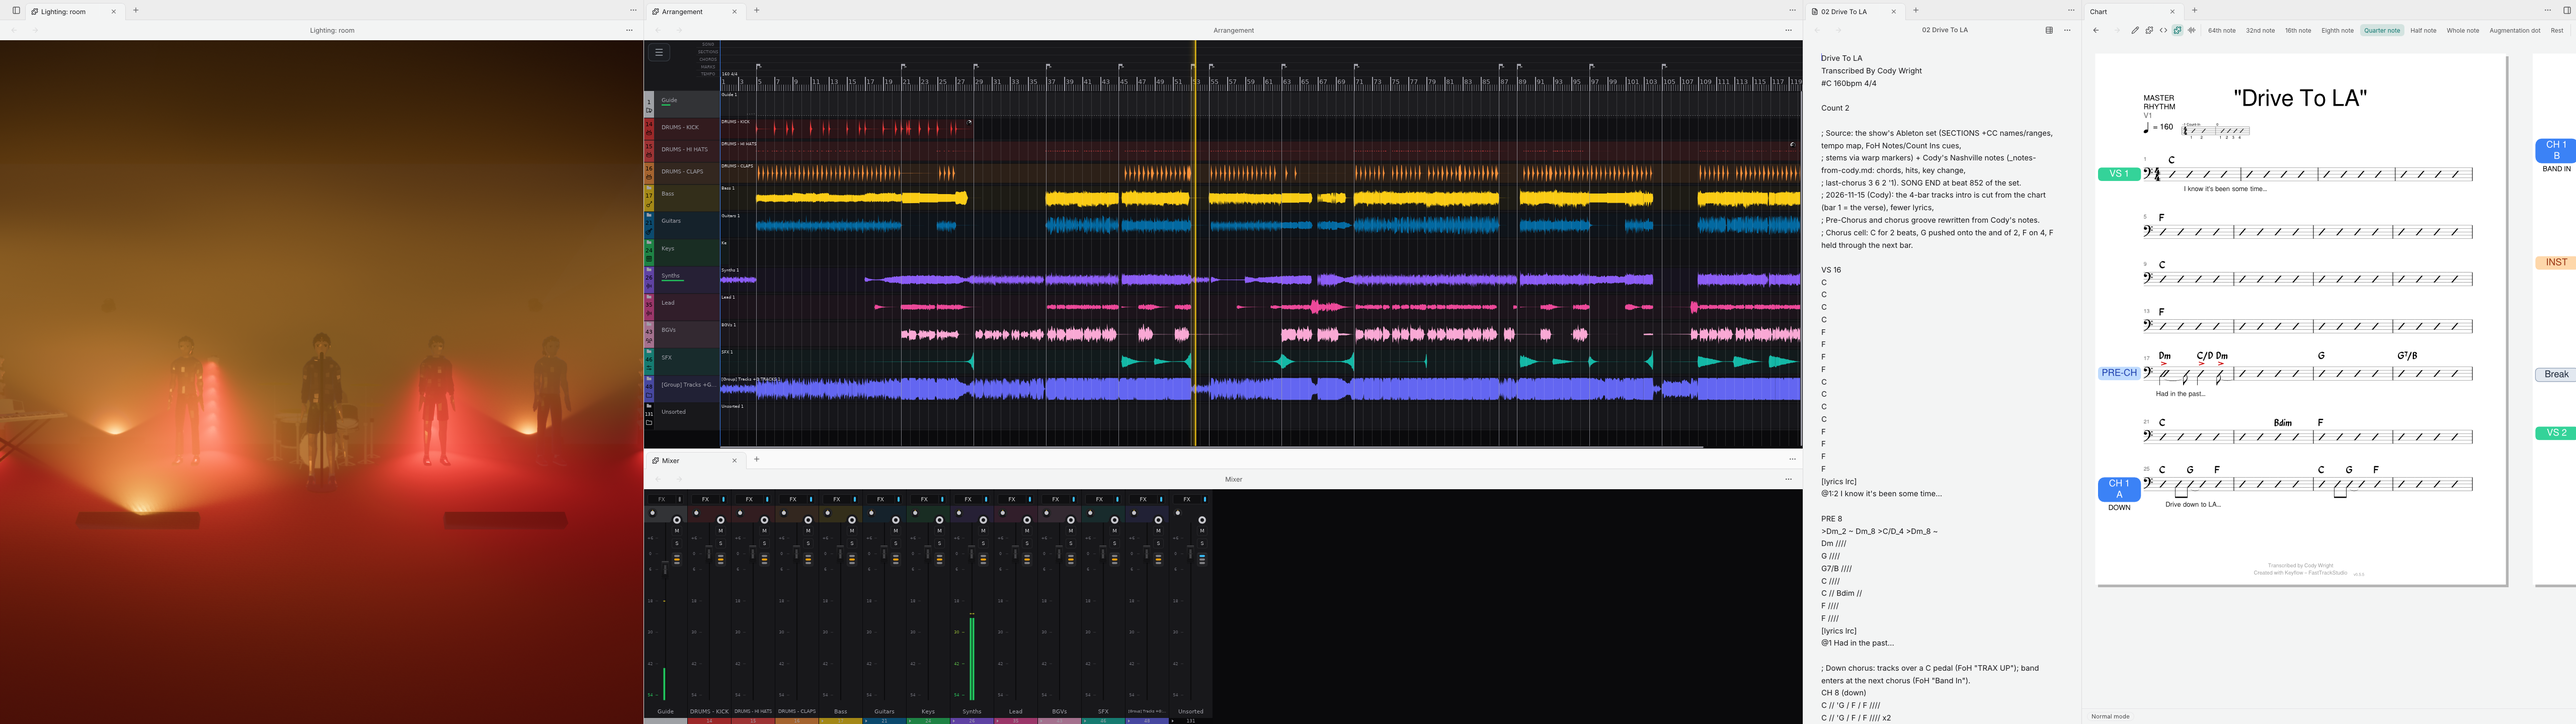
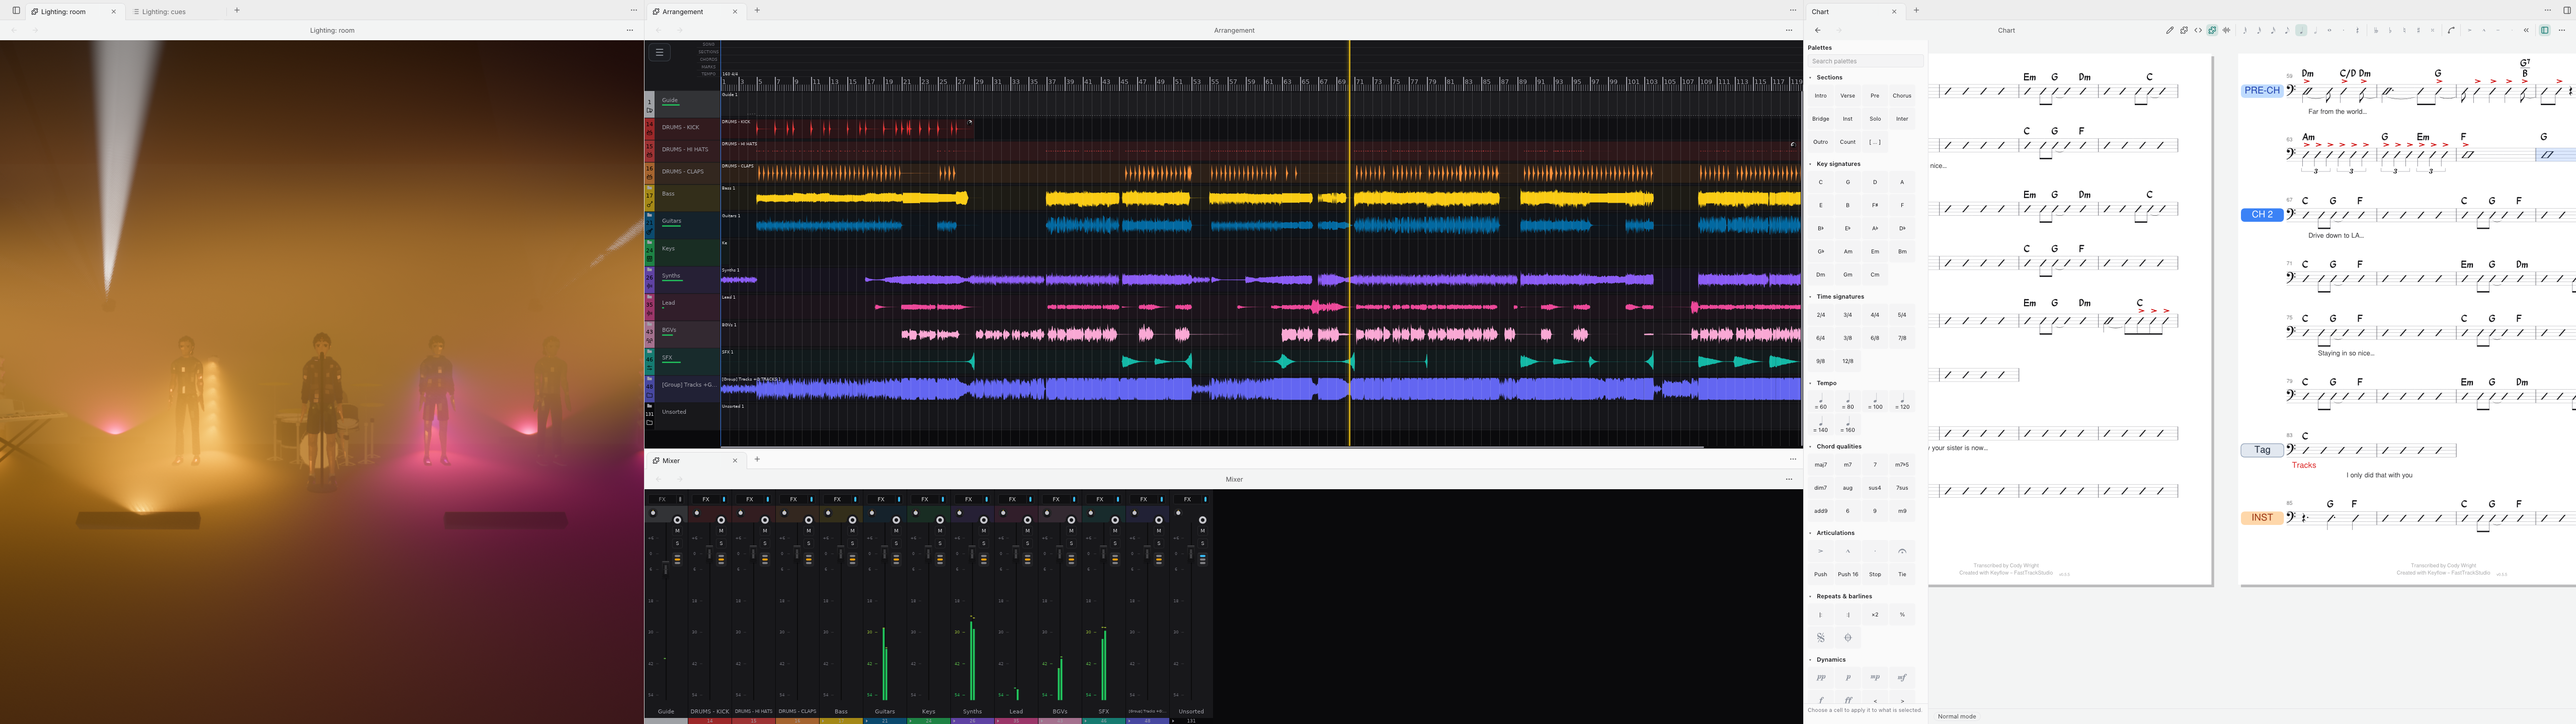
media: the setlist window on one session and one transport, in the owner's layout (stills); earlier stages moved aside

diff --git a/README.md b/README.md
@@ -1,78 +1,76 @@
-# The setlist window at 5120×1440
+# The setlist window at 5120×1440: one session, one transport
 
 One stock Architect window, 5120×1440, both sidebars, the status bar and the
-Now Playing bar hidden, playing **Drive To LA** from JT's Senior Recital:
+Now Playing bar hidden, playing **Drive To LA** from JT's Senior Recital, in
+the owner's layout:
 
 | left | centre | right |
 |---|---|---|
-| Ignition's 3D room (`ignition/room`, a `kind = "process"` view; Ignition `main` `8f04c0a`) | **Studio's own** arrangement over **Studio's own** mixer (`studio.arrangement/arrangement`, `studio.mixer/mixer`: `session_ui`'s panels, the ones `studio-desktop` mounts), on **Studio's engine** (the `daw` extension runs `studio engine`) playing the song's multitracks into a private PipeWire null sink; studio#519 `fffcf831` | Keyflow's chart text (`vault.note`) beside the chart (`keyflow/chart` on a session; `feat/runtime-chart` `ce7dbd7`) |
+| Ignition's 3D room (`ignition/room`, a process view), the cue list (`ignition/cues`) a tab behind it | Studio's own arrangement (`studio.arrangement/arrangement`), the mixer (`studio.mixer/mixer`) under the arrangement only | Keyflow's chart pane (`keyflow/chart`) with its palettes sidebar and icon toolbar; no text pane |
 
-Nothing is compiled into the app: `daw`, `studio.arrangement`, `studio.mixer`,
-`keyflow` and `ignition` are development copies of runtime extensions in one
-isolated instance of `architect-desktop --features process-views`, Architect
-`runtime-compositor-setlist` `d46354fc`.
+Every pane is a development copy of a runtime extension: `daw`, `studio.arrangement`, `studio.mixer`, `keyflow` and `ignition`. Nothing is compiled into the app.
+
+## One transport
+
+Studio's engine (the `daw` extension, `FTS_DAW_OPEN` the song's `.rpp`,
+`FTS_DAW_BAR_ONE=5`) opens the song's session and leads its transport. The
+arrangement, the mixer, the chart, the room and the cue list all follow that one
+transport, by the handshake agreed on studio#522:
+
+1. `EXT_SERVICE_USE {"service":"fts.session","provider":"daw"}`. Both `daw` and `keyflow` provide `fts.session`; `EXT_SERVICES` then says `in_use: daw`.
+2. `KEYFLOW_SESSION_FOLLOW {url, id, chart_path}`.
+3. The chart pane on `session:<id>`.
+4. `IGNITION_SESSION_SONG` and `IGNITION_SESSION_ROOM`.
+
+There is no second clock: play and seek go to the engine alone (`SESSION_PLAY_FROM`, `SESSION_SEEK` through `DAW_RUN`).
+
+The engine's position and the chart's shown time, read one after the other
+(each read is a separate CLI call, so a few tenths apart):
+
+| moment | engine | chart |
+|---|---|---|
+| played from 0 | 5.96 s | 6.30 s |
+| seek 66 s (Interlude) | 69.06 s | 69.29 s |
+| seek 93 s (Pre-Chorus 2) | 96.17 s | 96.67 s |
+| light theme | 101.68 s | 101.93 s |
+
+Read on screen at 93 s (an earlier run of the same build), the arrangement's playhead is at the start of project bar 63, and the chart's playhead is at the first bar of PRE-CH 2. That is the same bar: the song's bar 1 is project bar 5. The room changes look with each seek (amber intro wash at 5 s, magenta at 120 s), following the same session.
 
 ## Files
 
-- `setlist-window-5120x1440-dark-playing.png`: dark, playing (the engine at 72 s).
-- `setlist-window-5120x1440-light-playing.png`: light, playing (78 s). Studio's panes stay dark as `studio-desktop` itself does under a light desktop (studio `pr-media/arrangement-mixer`, `reference-studio-desktop/studio-desktop-1280-light-desktop-stays-dark.png`).
-- `setlist-window-5120x1440-dark-playing-28s.mp4`: 28 s of playback from 57 s.
-- `stage-b-placeholder/`: the earlier stage with studio#519's rejected placeholder drawing, kept for comparison only.
+- `setlist-window-5120x1440-dark-play-from-0.png`: playing, 6 s in.
+- `setlist-window-5120x1440-dark-seek-66s-interlude.png`: after the seek to 66 s.
+- `setlist-window-5120x1440-dark-seek-93s-prechorus-2.png`: after the seek to 93 s.
+- `setlist-window-5120x1440-light-playing.png`: light theme, playing. Studio's panes stay dark, as `studio-desktop` itself does under a light desktop.
+- `setlist-window-5120x1440-dark-play-seek-seek-31s.mp4`: play from 0, seek to 66 s at about 10 s, seek to 93 s at about 20 s.
+- `stage-c-two-clocks/` and `stage-b-placeholder/`: the earlier stages, superseded.
 
-All captured from a headless GPU Loft session (RTX 4080) whose one output is
-exactly 5120×1440 at 60 Hz, with `loft-shot` and `wf-recorder`. `APP_SHOT`
-was not used: it repaints on the CPU and draws a process view black.
+All captured with `loft-shot` / `wf-recorder` from a headless GPU Loft session (RTX 4080), one output at exactly 5120×1440, 60 Hz. The shell's notifications were muted and the pointer parked off the window.
 
-## Which pane follows which clock
+## Builds
 
-- **Studio's engine:**
-  - the arrangement's playhead and the mixer's meters (Studio's own window protocol, attached to the engine);
-  - **the room**: Ignition's `studio` clock, the engine's socket (`$XDG_RUNTIME_DIR/fts/engine-<pid>.sock`, log "following the engine … a song of the night is open song=Drive To LA").
-  - Seeking the engine alone moves the room: the intro's amber wash at 5 s, magenta at 120 s.
-- **Its own clock: the chart.** It is on a session Keyflow hosts and serves (`KEYFLOW_SESSION_PLAY`), started at the same moment as the engine (`just setlist-window --play`). Keyflow cannot follow Studio's engine, and the engine publishes no session transport (studio#522). The chart also draws no playhead and stays on page 1 while playing (keyflow#97).
+- **Architect:** `runtime-compositor-setlist` `a2f129c9`.
+  - It is `main` `4d537fb8` plus my unmerged `dev --layout <file>.json` and `--hide now-playing`, the `now_playing` slot (the layout file hides the Now Playing bar), the opt-in process-view stats line, and the schema cache, all to come as PRs.
+  - The provider choice (#872), a provider using its own service (#873) and images in a runtime view (#874) are on `main`.
+- **Studio:** `feat/arrangement-mixer-runtime-extensions` `b434c7de`.
+- **Keyflow:** **keyflow#104's branch** `feat/uses-fts-session` `5e067131` (`[uses] "fts.session"`), not yet in Keyflow `main`. It sits on `82c6b97`, so it lacks `main`'s #102 (note input's bars, the count-in) and #103 (a session as a vault document).
+- **Ignition:** `main` `a540496`.
+- **Run:** `just setlist-window --play 0` (`scripts/setlist-window.sh`, `examples/layouts/setlist-window.json`).
 
-## Frame time, the whole window, playing
+## The chart column against Keyflow's own window
 
-`APP_FRAMES` (`features/workspace/src/frames.rs`), 20 s, all five panes on
-screen, fullscreen 5120×1440, the window's thread CPU from `/proc`:
+Compared with Keyflow's capture `pr-media/chart-selection-and-input-modes:captures/kf1280-dark-syntax-preview.png`.
 
-| | p50 | p99 | max |
-|---|---|---|---|
-| frame to frame (what reached the screen) | 16.7 ms | 37.6 ms | 63.4 ms |
-| each redraw on the window's thread (includes waiting on the 60 Hz present) | 14.2 ms | 32.5 ms | 55.4 ms |
+**The same:**
+- the pane's icon toolbar (input modes, note values, dot, rest, accidentals, tie, articulations, the palettes toggle);
+- the Palettes sidebar (Sections, Key signatures, Time signatures, Tempo with its note glyphs, Chord qualities, Articulations, Repeats & barlines with segno and coda, Dynamics);
+- the chart in the app's theme.
 
-- **56.4 fps presented.**
-- **10.0 ms of CPU a frame** on the window's thread (56.6% busy).
-- The machine was heavily shared while measuring (load ~43; another session's compositor at ~20 cores), so the p99 and max are noisy.
-- With the placeholder drawing, the same measurement gave 56.5 fps and 8.3 ms of CPU a frame. Of that CPU (perf, placeholder run):
-  - Blitz painting the page and its sub-documents ~29%;
-  - re-composing the extensions' scenes every frame ~19% (`architect_scene::layers::replay` copies each path into a fresh recording, #834);
-  - Vello's encoding ~20%.
+**What still differs:**
+- Keyflow's capture is in syntax mode, so its foot has the "Keyflow syntax" input row; this pane is in normal mode.
+- Keyflow's capture shows its window's chrome (title bar, a Welcome tab); the owner's layout hides the sidebars and bars.
+- The chart scrolls to follow the playhead (#100), so the page on screen moves with the song.
 
-**What capped it:** first, the 60 Hz output (the Loft headless output offers
-only 60 Hz). Below that, the window's own thread: 10 ms of CPU a frame is
-about 100 fps at best here.
+## Frame time
 
-**Unproven:**
-- **240 fps on the ultrawide.** It needs a high-refresh output to show, and the window's CPU per frame cut to under ~4 ms first.
-- The GPU's raster time is not separated.
-- Ignition's room arrives over shared memory, not dma-buf (one copy each way at 5K).
-
-## Run it
-
-```sh
-SETLIST_SESSION="<…>/Drive To LA/Drive To LA.rpp" \
-SETLIST_STUDIO=<studio at studio#519> SETLIST_KEYFLOW=<keyflow> SETLIST_IGNITION=<Ignition> \
-  just setlist-window --play 60
-```
-
-`scripts/setlist-window.sh`:
-- builds each program in its own repo's dev shell;
-- assembles the five packages;
-- opens `examples/layouts/setlist-window.json`;
-- makes Keyflow's session from the chart;
-- points the chart at it and the room at the engine.
-
-A window manager that opens the window smaller needs it fullscreen; a resize no longer crashes. The song folder's name is what Ignition matches to the night's song.
-
-Gaps and fixes: architect#840 (the comments of 2026-11-18), #851, studio#522, keyflow#97.
+(filled in from the recording run)

diff --git a/stage-c-two-clocks/README.md b/stage-c-two-clocks/README.md
@@ -1,0 +1,80 @@
+# Stage (c), two clocks: superseded by the README one folder up.
+
+# The setlist window at 5120×1440
+
+One stock Architect window, 5120×1440, both sidebars, the status bar and the
+Now Playing bar hidden, playing **Drive To LA** from JT's Senior Recital:
+
+| left | centre | right |
+|---|---|---|
+| Ignition's 3D room (`ignition/room`, a `kind = "process"` view; Ignition `main` `8f04c0a`) | **Studio's own** arrangement over **Studio's own** mixer (`studio.arrangement/arrangement`, `studio.mixer/mixer`: `session_ui`'s panels, the ones `studio-desktop` mounts), on **Studio's engine** (the `daw` extension runs `studio engine`) playing the song's multitracks into a private PipeWire null sink; studio#519 `fffcf831` | Keyflow's chart text (`vault.note`) beside the chart (`keyflow/chart` on a session; `feat/runtime-chart` `ce7dbd7`) |
+
+Nothing is compiled into the app: `daw`, `studio.arrangement`, `studio.mixer`,
+`keyflow` and `ignition` are development copies of runtime extensions in one
+isolated instance of `architect-desktop --features process-views`, Architect
+`runtime-compositor-setlist` `d46354fc`.
+
+## Files
+
+- `setlist-window-5120x1440-dark-playing.png`: dark, playing (the engine at 72 s).
+- `setlist-window-5120x1440-light-playing.png`: light, playing (78 s). Studio's panes stay dark as `studio-desktop` itself does under a light desktop (studio `pr-media/arrangement-mixer`, `reference-studio-desktop/studio-desktop-1280-light-desktop-stays-dark.png`).
+- `setlist-window-5120x1440-dark-playing-28s.mp4`: 28 s of playback from 57 s.
+- `stage-b-placeholder/`: the earlier stage with studio#519's rejected placeholder drawing, kept for comparison only.
+
+All captured from a headless GPU Loft session (RTX 4080) whose one output is
+exactly 5120×1440 at 60 Hz, with `loft-shot` and `wf-recorder`. `APP_SHOT`
+was not used: it repaints on the CPU and draws a process view black.
+
+## Which pane follows which clock
+
+- **Studio's engine:**
+  - the arrangement's playhead and the mixer's meters (Studio's own window protocol, attached to the engine);
+  - **the room**: Ignition's `studio` clock, the engine's socket (`$XDG_RUNTIME_DIR/fts/engine-<pid>.sock`, log "following the engine … a song of the night is open song=Drive To LA").
+  - Seeking the engine alone moves the room: the intro's amber wash at 5 s, magenta at 120 s.
+- **Its own clock: the chart.** It is on a session Keyflow hosts and serves (`KEYFLOW_SESSION_PLAY`), started at the same moment as the engine (`just setlist-window --play`). Keyflow cannot follow Studio's engine, and the engine publishes no session transport (studio#522). The chart also draws no playhead and stays on page 1 while playing (keyflow#97).
+
+## Frame time, the whole window, playing
+
+`APP_FRAMES` (`features/workspace/src/frames.rs`), 20 s, all five panes on
+screen, fullscreen 5120×1440, the window's thread CPU from `/proc`:
+
+| | p50 | p99 | max |
+|---|---|---|---|
+| frame to frame (what reached the screen) | 16.7 ms | 37.6 ms | 63.4 ms |
+| each redraw on the window's thread (includes waiting on the 60 Hz present) | 14.2 ms | 32.5 ms | 55.4 ms |
+
+- **56.4 fps presented.**
+- **10.0 ms of CPU a frame** on the window's thread (56.6% busy).
+- The machine was heavily shared while measuring (load ~43; another session's compositor at ~20 cores), so the p99 and max are noisy.
+- With the placeholder drawing, the same measurement gave 56.5 fps and 8.3 ms of CPU a frame. Of that CPU (perf, placeholder run):
+  - Blitz painting the page and its sub-documents ~29%;
+  - re-composing the extensions' scenes every frame ~19% (`architect_scene::layers::replay` copies each path into a fresh recording, #834);
+  - Vello's encoding ~20%.
+
+**What capped it:** first, the 60 Hz output (the Loft headless output offers
+only 60 Hz). Below that, the window's own thread: 10 ms of CPU a frame is
+about 100 fps at best here.
+
+**Unproven:**
+- **240 fps on the ultrawide.** It needs a high-refresh output to show, and the window's CPU per frame cut to under ~4 ms first.
+- The GPU's raster time is not separated.
+- Ignition's room arrives over shared memory, not dma-buf (one copy each way at 5K).
+
+## Run it
+
+```sh
+SETLIST_SESSION="<…>/Drive To LA/Drive To LA.rpp" \
+SETLIST_STUDIO=<studio at studio#519> SETLIST_KEYFLOW=<keyflow> SETLIST_IGNITION=<Ignition> \
+  just setlist-window --play 60
+```
+
+`scripts/setlist-window.sh`:
+- builds each program in its own repo's dev shell;
+- assembles the five packages;
+- opens `examples/layouts/setlist-window.json`;
+- makes Keyflow's session from the chart;
+- points the chart at it and the room at the engine.
+
+A window manager that opens the window smaller needs it fullscreen; a resize no longer crashes. The song folder's name is what Ignition matches to the night's song.
+
+Gaps and fixes: architect#840 (the comments of 2026-11-18), #851, studio#522, keyflow#97.
